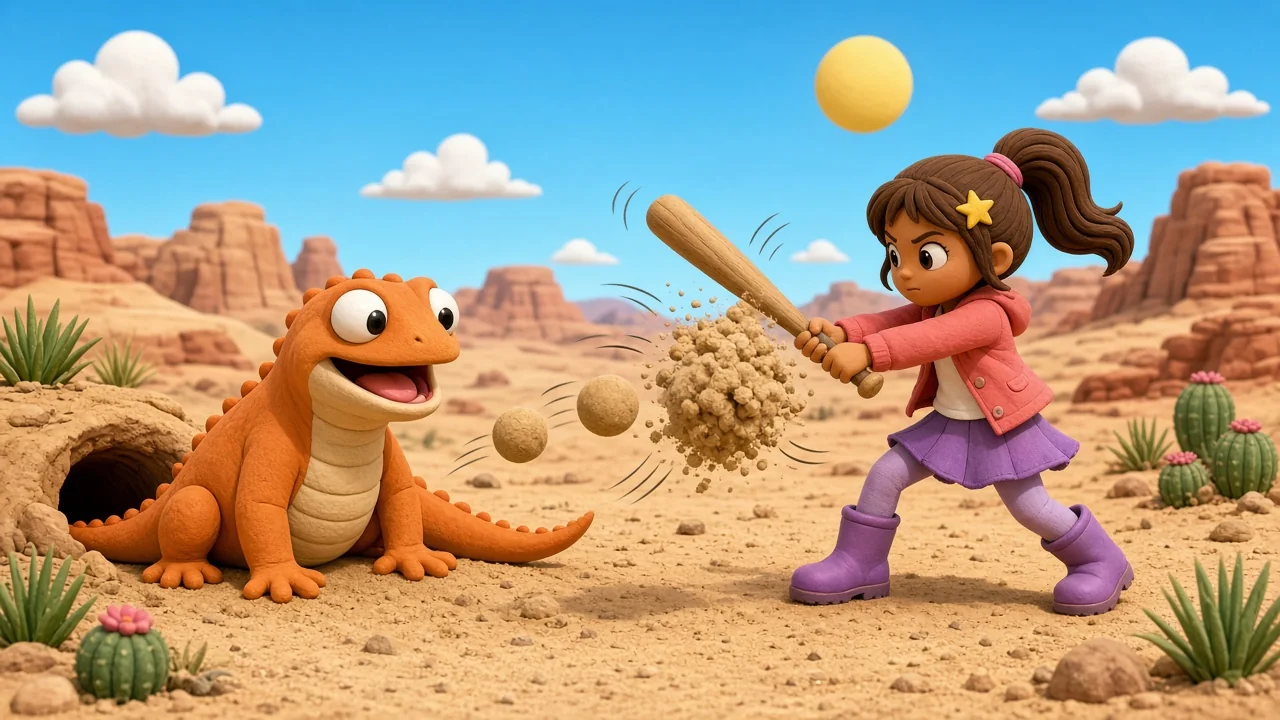
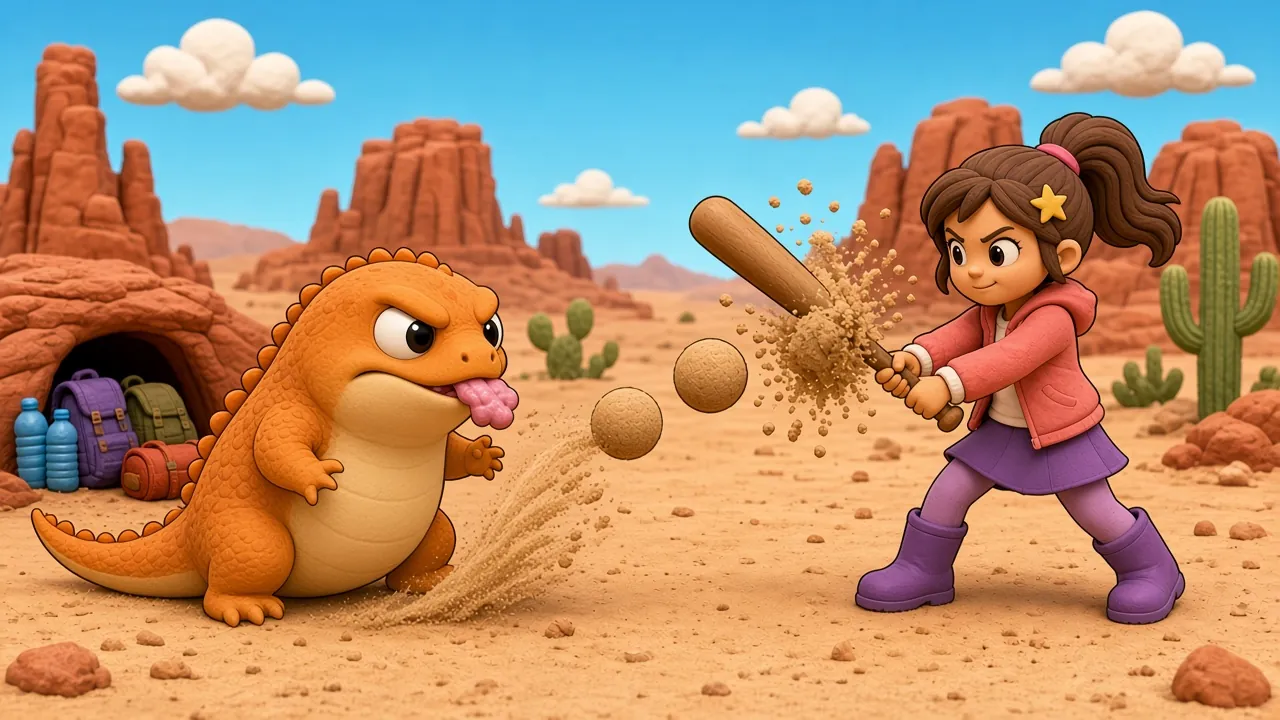
v0.6.53: S4 P16/P17 text+art, bed/gum/lizard cards; summary skips earlier-story words

diff --git a/app/src/components/storyReader.vue b/app/src/components/storyReader.vue
@@ -59,6 +59,11 @@ const uniqueWords = computed(() => {
   }
   return items
 })
+/** Summary cards skip words already carded in an earlier story; body taps still use uniqueWords. */
+const summaryWords = computed(() => {
+  const skip = new Set((props.story.summarySkipWords ?? []).map((word) => word.toLowerCase()))
+  return uniqueWords.value.filter((item) => !skip.has(item.word.toLowerCase()))
+})
 const summaryPhrases = computed(() => {
   const seen = new Set<string>()
   const items: StoryPhrase[] = []
@@ -405,7 +410,7 @@ onUnmounted(() => {
 
     <StorySummary
       v-else
-      :words="uniqueWords"
+      :words="summaryWords"
       :phrases="summaryPhrases"
       :playing-phrase="playingPhrase"
       :open-word="openLearn?.word"

diff --git a/app/src/types/story.ts b/app/src/types/story.ts
@@ -40,6 +40,8 @@ export interface Story {
   source: string
   pageCount: number
   pages: StoryPage[]
+  /** Words already carded in an earlier story (index order); hidden on the summary page only. */
+  summarySkipWords?: string[]
 }
 
 export interface EnSegment {

diff --git a/stories/the-big-tug.md b/stories/the-big-tug.md
@@ -34,7 +34,7 @@
 ### P04
 正文: Pop! A fat lizard! Zip! It grabs bottles and bags.（嘭！一只胖沙蜥！嗖！它卷走了水瓶和包。）
 主练句式: Pop! A fat ___!
-辅词: —
+辅词: lizard（看图词）
 知识点: 拟声 Pop! Zip!；沙蜥登场卷走水和包
 
 ---
@@ -114,7 +114,7 @@
 ### P14
 正文: Rumble! The lizard pops out. Its tongue zips!（轰隆隆！沙蜥冒出来了，舌头嗖地伸出来！）
 主练句式: The ___ pops out.
-辅词: —
+辅词: lizard（看图词）
 知识点: 拟声 Rumble! Zips!；悬念
 
 ---
@@ -128,17 +128,17 @@
 ---
 
 ### P16
-正文: Sand balls fly! Mia swings the **bat**. A big **hit**!（沙球飞来！米娅挥棒，好一记大击球！）
+正文: The lizard kicks sand balls at Mia! Mia swings the **bat**. A big **hit**!（沙蜥把沙球踢向米娅！米娅挥棒，好一记大击球！）
 主练句式: A big ___!
-辅词: bat（第4章 第3课「大力一击」）；hit（第4章 第3课「大力一击」）
+辅词: bat（第4章 第3课「大力一击」）；hit（第4章 第3课「大力一击」）；lizard（看图词）
 知识点: A big hit!（第4章 第3课句式）；挥棒打散沙球
 
 ---
 
 ### P17
-正文: A bottle flies up. Mia catches it in the **mitt**!（一个水瓶飞了起来。米娅用手套接住了！）
+正文: Bonk! A bottle pops off the lizard's pile. Mia catches it in the **mitt**!（砰！一个水瓶从沙蜥的那堆东西上弹了起来。米娅用手套接住了！）
 主练句式: Mia catches it in the ___!
-辅词: mitt（第4章 第3课「大力一击」）
+辅词: mitt（第4章 第3课「大力一击」）；lizard（看图词）
 知识点: in the mitt 介词 in；手套接水瓶
 
 ---
@@ -154,7 +154,7 @@
 ### P19
 正文: Mia **tugs**. The lizard sits tight. Oh no!（米娅拉呀拉，沙蜥坐得稳稳的。哎呀！）
 主练句式: Mia ___s.
-辅词: tug（第4章 第4课「大胡萝卜」）
+辅词: tug（第4章 第4课「大胡萝卜」）；lizard（看图词）
 知识点: tugs 第三人称单数；沙蜥坐得稳（悬念）
 
 ---
@@ -178,7 +178,7 @@
 ### P22
 正文: We **win**! But the lizard looks so sad.（我们赢了！可是沙蜥看起来好难过。）
 主练句式: We ___!
-辅词: win（第4章 第3课「大力一击」）
+辅词: win（第4章 第3课「大力一击」）；lizard（看图词）
 知识点: We win! 胜利；but 转折：沙蜥难过
 
 ---
@@ -186,7 +186,7 @@
 ### P23
 正文: Peep! A baby lizard in a sand **bed**. So thirsty!（叽！沙窝小床里有只小沙蜥，好渴呀！）
 主练句式: A baby ___ in a sand ___.
-辅词: bed（第4章 第1课「六只母鸡会跳」）
+辅词: bed（第4章 第1课「六只母鸡会跳」）；lizard（看图词）
 知识点: 回收 P06 伏笔：叽叽声来自小沙蜥
 
 ---
@@ -210,7 +210,7 @@
 ### P26
 正文: The lizard is a friend. Hop on! We all **win**!（沙蜥成了好朋友。跳上来吧！大家都赢啦！）
 主练句式: We all ___!
-辅词: win（第4章 第3课「大力一击」）
+辅词: win（第4章 第3课「大力一击」）；lizard（看图词）
 知识点: We all win! 温暖收尾；沙蜥成为朋友
 
 ---
@@ -227,8 +227,10 @@
 ## 词表（15 个，按首次出现）
 mom · dad · hen · pet · bed · leg · bat · mitt · rag · gift · tag · gum · hit · tug · win
 
+另有看图词卡 1 个：lizard（沙蜥），不算课纲词。总结页会自动跳过前面故事已出过的词卡（本书为 mom）。
+
 ## 看图词（不在课纲里）
-lizard · bottle · dunes · Hen（名字）
+lizard（有词卡，沙蜥，P04, P14, P16, P17, P19, P22, P23, P26）· bottle · dunes · Hen（名字）
 
 ## 视觉词
 one（P25）· two（P25）· help（P09, P20）；字母 G：P12 礼物标签

diff --git a/README.md b/README.md
@@ -100,7 +100,7 @@ node scripts/genEnTimings.mjs
 - 更新弹层：每 10 秒带 cache-bust 拉取 `versions.json`，若有比已安装版本号更新的组，齿轮关闭时在设置外弹出这些版本行，顶部一个 **Update**（写入已确认版本、清缓存、保留进度、硬刷新）。已是最新则不显示弹层
 - PWA：可安装到主屏幕（`standalone`）；预缓存阅读器壳 + 故事 JSON。页级英文 mp3、插图 webp 和 `timings.json` 走运行时 Cache First，不进预缓存。地址带内容哈希 `?v=`，文件改了就会拉新资源，不必清缓存。翻页时后台预取后两页的图和英文 mp3；故事打开后在空闲时低并发把本章资源写入缓存（省流量模式跳过）。`versions.json` 用 Network First，以免挡住更新检测
 
-进度按本故事写入 `localStorage`。每次有意义的发布请在 `app/public/versions.json` 顶部追加 `{ id, version, date, summary }`（新条目用英文）。当前版本 **0.6.52**。
+进度按本故事写入 `localStorage`。每次有意义的发布请在 `app/public/versions.json` 顶部追加 `{ id, version, date, summary }`（新条目用英文）。当前版本 **0.6.53**。
 
 ## 安装到主屏幕（PWA）
 
